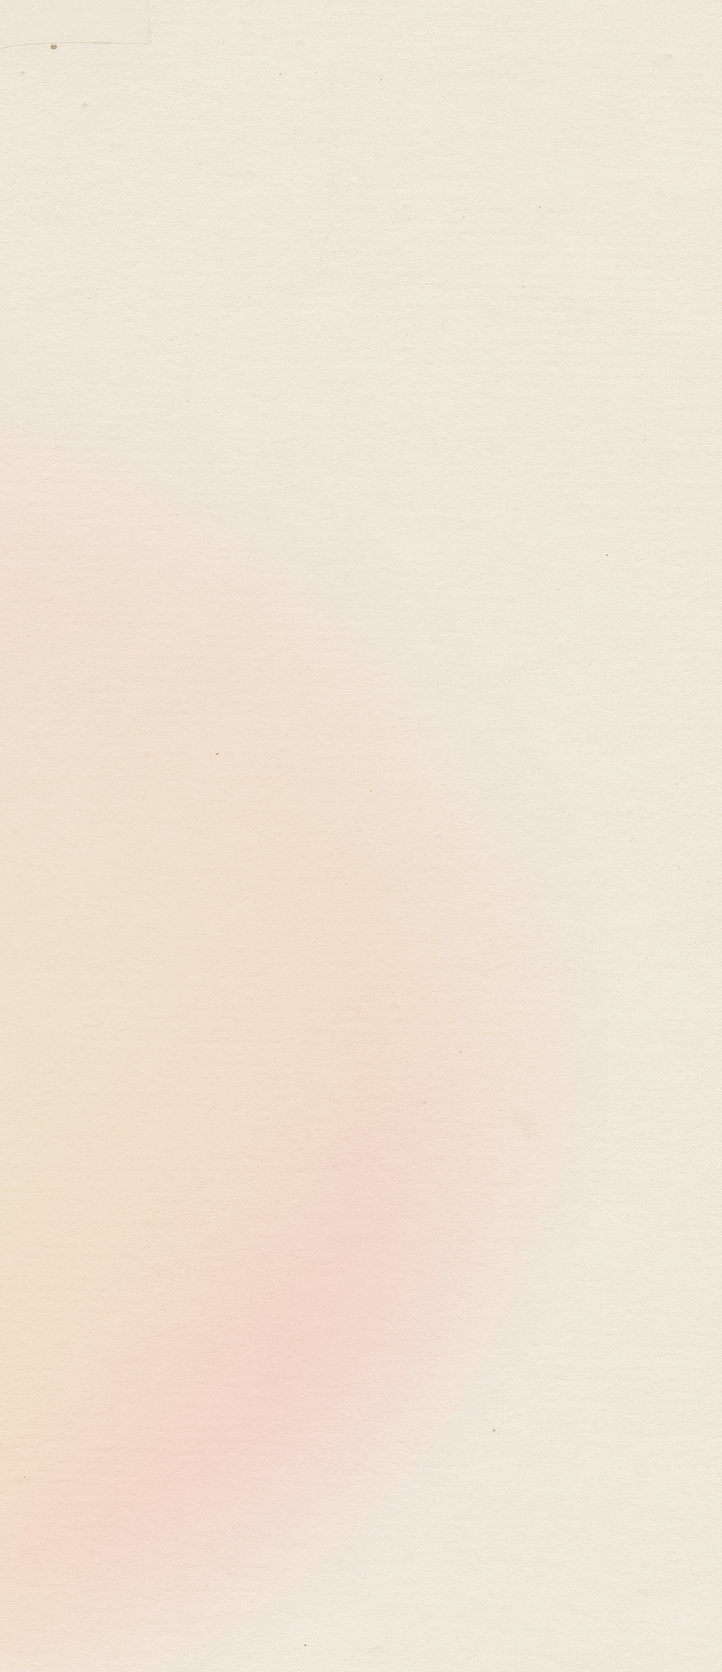
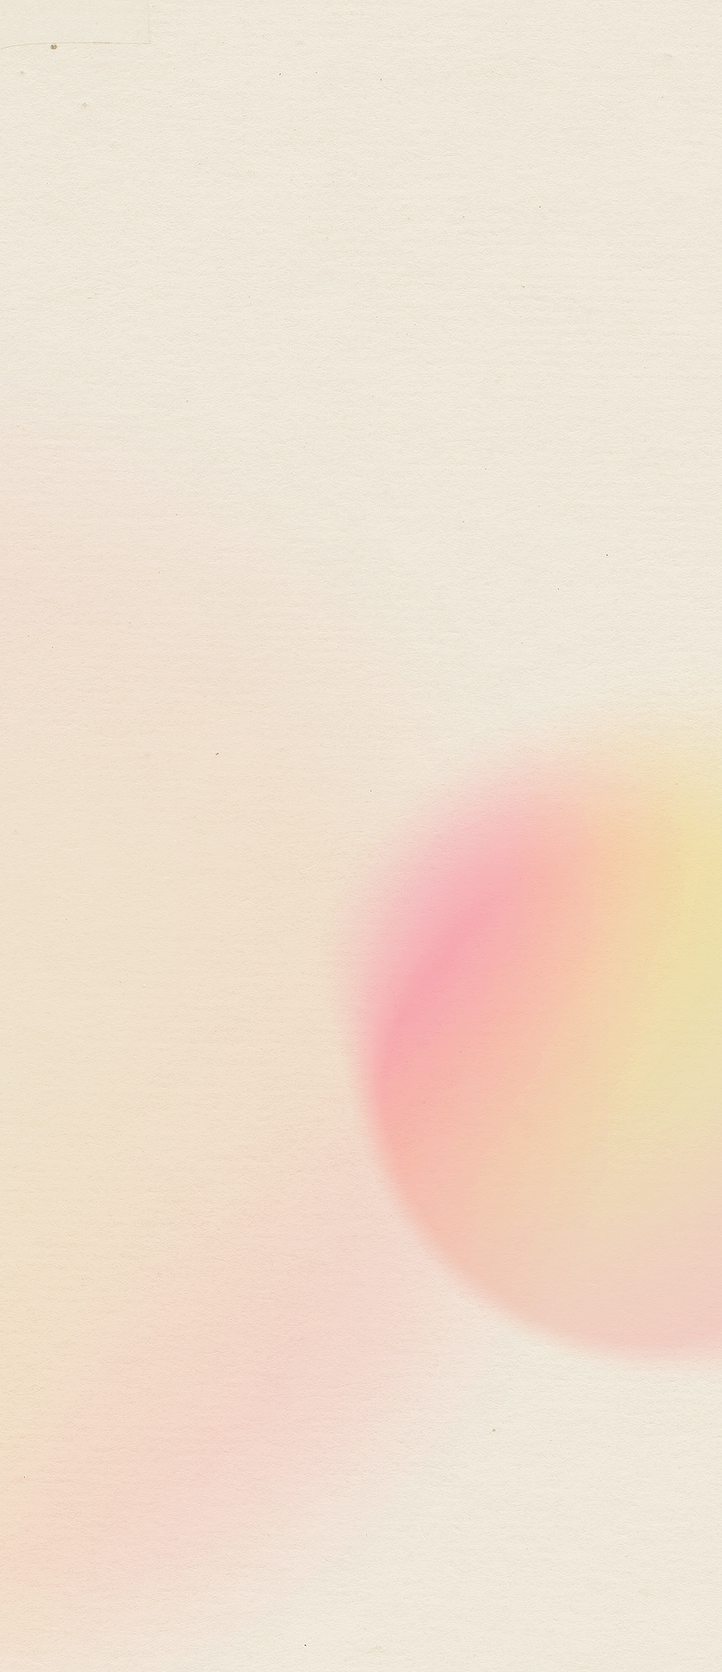
Replace homepage background and transparent directory art

Changed region(s): [[0.4889, 0.4368, 1.0, 0.8112]]

diff --git a/index.html b/index.html
@@ -2,11 +2,11 @@
 <html lang="zh-CN"><head><meta charset="utf-8"><meta name="viewport" content="width=device-width,initial-scale=1"><meta name="color-scheme" content="light dark"><title>一个美梦成真时</title>
 <link rel="preconnect" href="https://fonts.googleapis.com">
   <link rel="preconnect" href="https://fonts.gstatic.com" crossorigin>
-  <link href="https://fonts.googleapis.com/css2?family=Noto+Sans+SC:wght@300;400;500&family=Noto+Serif+SC:wght@400;600&display=swap" rel="stylesheet"><link rel="stylesheet" href="style.css?v=10"><script defer src="https://static.cloudflareinsights.com/beacon.min.js" data-cf-beacon='{"token":"cc3326733543405881d645b008275c07"}'></script></head><body class="home-page">
+  <link href="https://fonts.googleapis.com/css2?family=Noto+Sans+SC:wght@300;400;500&family=Noto+Serif+SC:wght@400;600&display=swap" rel="stylesheet"><link rel="stylesheet" href="style.css?v=11"><script defer src="https://static.cloudflareinsights.com/beacon.min.js" data-cf-beacon='{"token":"cc3326733543405881d645b008275c07"}'></script></head><body class="home-page">
 <header class="site-header site-header-home"><a class="site-home" href="index.html" aria-label="返回作品目录"><img src="assets/site-header.png" alt="WHEN A DREAM COMES TRUE — 一个美梦成真时"></a><div class="word-count">全篇字数：246,546</div><div class="toolbar"><button class="round" id="settingsButton" aria-label="阅读设置" aria-controls="settingsPanel" aria-expanded="false">◐</button></div></header>
 <aside class="panel" id="settingsPanel" aria-label="阅读设置" inert>
     <div class="panel-head"><span>阅读设置</span><button class="close" data-close>关闭</button></div>
     <div class="group"><span class="label">字体</span><div class="options font-options"><button class="choice active" data-font="serif">思源宋体</button><button class="choice" data-font="sans">思源黑体</button><button class="choice" data-font="light">苹方细体</button><button class="choice" data-font="system">手机系统</button></div></div>
     <div class="group"><span class="label">字号</span><div class="options sizes"><button class="choice" data-size="12">一咪咪</button><button class="choice" data-size="14">特小</button><button class="choice active" data-size="16">小</button><button class="choice" data-size="18">适中</button><button class="choice" data-size="20">大</button><button class="choice" data-size="23">特大</button></div></div>
     <div class="group"><span class="label">底色与文字</span><div class="palettes" id="palettes"></div></div>
-  </aside><main class="home-main"><div class="directory-poster"><img src="assets/contents.png" alt="一个美梦成真时章节目录"><a class="dream-glyph" href="00.html" aria-label="进入第00章">梦</a><a class="click-cue" href="00.html" aria-label="进入第00章"><img src="assets/click.png" alt=""></a><a class="poster-hit poster-intro directory-start" id="directory-start" style="top:39.1%;left:6%" href="intro-1.html" aria-label="引言1 《英文诗两首（一）》"></a><a class="poster-hit poster-intro" style="top:48.5%;right:5%" href="intro-2.html" aria-label="引言2 《英文诗两首（二）》"></a><a class="poster-hit poster-intro" style="top:58%;left:6%" href="intro-3.html" aria-label="引言3 《星期六》"></a><a class="poster-hit poster-intro" style="top:67.3%;right:5%" href="intro-4.html" aria-label="引言4 《布宜诺斯艾利斯》"></a><a class="poster-hit poster-intro" style="top:76%;left:6%" href="intro-5.html" aria-label="引言5 《循环的夜》"></a><a class="poster-hit poster-intro" style="top:84.4%;right:5%" href="intro-6.html" aria-label="引言6 《布宜诺斯艾利斯（另一首）》"></a><a class="poster-hit poster-chapter" style="top:44.46%;left:30.5%" href="00.html" aria-label="第00章">00</a><a class="poster-hit poster-chapter" style="top:45.24%;left:14.5%" href="01.html" aria-label="第01章">01</a><a class="poster-hit poster-chapter" style="top:46.04%;left:30.5%" href="02.html" aria-label="第02章">02</a><a class="poster-hit poster-chapter" style="top:46.82%;left:14.5%" href="03.html" aria-label="第03章">03</a><a class="poster-hit poster-chapter" style="top:47.62%;left:30.5%" href="04.html" aria-label="第04章">04</a><a class="poster-hit poster-chapter" style="top:48.4%;left:14.5%" href="05.html" aria-label="第05章">05</a><a class="poster-hit poster-chapter" style="top:49.2%;left:30.5%" href="06.html" aria-label="第06章">06</a><a class="poster-hit poster-chapter" style="top:54.72%;left:72%" href="07.html" aria-label="第07章">07</a><a class="poster-hit poster-chapter" style="top:55.5%;left:56.8%" href="08.html" aria-label="第08章">08</a><a class="poster-hit poster-chapter" style="top:56.3%;left:72%" href="09.html" aria-label="第09章">09</a><a class="poster-hit poster-chapter" style="top:57.08%;left:56.8%" href="10.html" aria-label="第10章">10</a><a class="poster-hit poster-chapter" style="top:57.88%;left:72%" href="11.html" aria-label="第11章">11</a><a class="poster-hit poster-chapter" style="top:64.04%;left:30.5%" href="12.html" aria-label="第12章">12</a><a class="poster-hit poster-chapter" style="top:64.82%;left:14.5%" href="13.html" aria-label="第13章">13</a><a class="poster-hit poster-chapter" style="top:65.62%;left:30.5%" href="14.html" aria-label="第14章">14</a><a class="poster-hit poster-chapter" style="top:66.4%;left:14.5%" href="15.html" aria-label="第15章">15</a><a class="poster-hit poster-chapter" style="top:67.2%;left:30.5%" href="16.html" aria-label="第16章">16</a><a class="poster-hit poster-chapter" style="top:72.68%;left:72%" href="17.html" aria-label="第17章">17</a><a class="poster-hit poster-chapter" style="top:73.46%;left:56.8%" href="18.html" aria-label="第18章">18</a><a class="poster-hit poster-chapter" style="top:74.26%;left:72%" href="19.html" aria-label="第19章">19</a><a class="poster-hit poster-chapter" style="top:75.04%;left:56.8%" href="20.html" aria-label="第20章">20</a><a class="poster-hit poster-chapter" style="top:80.66%;left:30.5%" href="21.html" aria-label="第21章">21</a><a class="poster-hit poster-chapter" style="top:81.44%;left:14.5%" href="22.html" aria-label="第22章">22</a><a class="poster-hit poster-chapter" style="top:82.24%;left:30.5%" href="23.html" aria-label="第23章">23</a><a class="poster-hit poster-chapter" style="top:83.02%;left:14.5%" href="24.html" aria-label="第24章">24</a><a class="poster-hit poster-chapter" style="top:83.82%;left:30.5%" href="25.html" aria-label="第25章">25</a><a class="poster-hit poster-chapter" style="top:89.42%;left:72%" href="26.html" aria-label="第26章">26</a><a class="poster-hit poster-chapter" style="top:90.2%;left:56.8%" href="27.html" aria-label="第27章">27</a><a class="poster-hit poster-chapter" style="top:91%;left:72%" href="28.html" aria-label="第28章">28</a><a class="poster-hit poster-chapter" style="top:91.78%;left:56.8%" href="29.html" aria-label="第29章">29</a></div></main><script src="reader.js?v=5"></script></body></html>
+  </aside><main class="home-main"><div class="directory-poster"><img src="assets/contents.png?v=2" alt="一个美梦成真时章节目录"><a class="dream-glyph" href="00.html" aria-label="进入第00章">梦</a><a class="click-cue" href="00.html" aria-label="进入第00章"><img src="assets/click.png" alt=""></a><a class="poster-hit poster-intro directory-start" id="directory-start" style="top:39.1%;left:6%" href="intro-1.html" aria-label="引言1 《英文诗两首（一）》"></a><a class="poster-hit poster-intro" style="top:48.5%;right:5%" href="intro-2.html" aria-label="引言2 《英文诗两首（二）》"></a><a class="poster-hit poster-intro" style="top:58%;left:6%" href="intro-3.html" aria-label="引言3 《星期六》"></a><a class="poster-hit poster-intro" style="top:67.3%;right:5%" href="intro-4.html" aria-label="引言4 《布宜诺斯艾利斯》"></a><a class="poster-hit poster-intro" style="top:76%;left:6%" href="intro-5.html" aria-label="引言5 《循环的夜》"></a><a class="poster-hit poster-intro" style="top:84.4%;right:5%" href="intro-6.html" aria-label="引言6 《布宜诺斯艾利斯（另一首）》"></a><a class="poster-hit poster-chapter" style="top:44.46%;left:30.5%" href="00.html" aria-label="第00章">00</a><a class="poster-hit poster-chapter" style="top:45.24%;left:14.5%" href="01.html" aria-label="第01章">01</a><a class="poster-hit poster-chapter" style="top:46.04%;left:30.5%" href="02.html" aria-label="第02章">02</a><a class="poster-hit poster-chapter" style="top:46.82%;left:14.5%" href="03.html" aria-label="第03章">03</a><a class="poster-hit poster-chapter" style="top:47.62%;left:30.5%" href="04.html" aria-label="第04章">04</a><a class="poster-hit poster-chapter" style="top:48.4%;left:14.5%" href="05.html" aria-label="第05章">05</a><a class="poster-hit poster-chapter" style="top:49.2%;left:30.5%" href="06.html" aria-label="第06章">06</a><a class="poster-hit poster-chapter" style="top:54.72%;left:72%" href="07.html" aria-label="第07章">07</a><a class="poster-hit poster-chapter" style="top:55.5%;left:56.8%" href="08.html" aria-label="第08章">08</a><a class="poster-hit poster-chapter" style="top:56.3%;left:72%" href="09.html" aria-label="第09章">09</a><a class="poster-hit poster-chapter" style="top:57.08%;left:56.8%" href="10.html" aria-label="第10章">10</a><a class="poster-hit poster-chapter" style="top:57.88%;left:72%" href="11.html" aria-label="第11章">11</a><a class="poster-hit poster-chapter" style="top:64.04%;left:30.5%" href="12.html" aria-label="第12章">12</a><a class="poster-hit poster-chapter" style="top:64.82%;left:14.5%" href="13.html" aria-label="第13章">13</a><a class="poster-hit poster-chapter" style="top:65.62%;left:30.5%" href="14.html" aria-label="第14章">14</a><a class="poster-hit poster-chapter" style="top:66.4%;left:14.5%" href="15.html" aria-label="第15章">15</a><a class="poster-hit poster-chapter" style="top:67.2%;left:30.5%" href="16.html" aria-label="第16章">16</a><a class="poster-hit poster-chapter" style="top:72.68%;left:72%" href="17.html" aria-label="第17章">17</a><a class="poster-hit poster-chapter" style="top:73.46%;left:56.8%" href="18.html" aria-label="第18章">18</a><a class="poster-hit poster-chapter" style="top:74.26%;left:72%" href="19.html" aria-label="第19章">19</a><a class="poster-hit poster-chapter" style="top:75.04%;left:56.8%" href="20.html" aria-label="第20章">20</a><a class="poster-hit poster-chapter" style="top:80.66%;left:30.5%" href="21.html" aria-label="第21章">21</a><a class="poster-hit poster-chapter" style="top:81.44%;left:14.5%" href="22.html" aria-label="第22章">22</a><a class="poster-hit poster-chapter" style="top:82.24%;left:30.5%" href="23.html" aria-label="第23章">23</a><a class="poster-hit poster-chapter" style="top:83.02%;left:14.5%" href="24.html" aria-label="第24章">24</a><a class="poster-hit poster-chapter" style="top:83.82%;left:30.5%" href="25.html" aria-label="第25章">25</a><a class="poster-hit poster-chapter" style="top:89.42%;left:72%" href="26.html" aria-label="第26章">26</a><a class="poster-hit poster-chapter" style="top:90.2%;left:56.8%" href="27.html" aria-label="第27章">27</a><a class="poster-hit poster-chapter" style="top:91%;left:72%" href="28.html" aria-label="第28章">28</a><a class="poster-hit poster-chapter" style="top:91.78%;left:56.8%" href="29.html" aria-label="第29章">29</a></div></main><script src="reader.js?v=5"></script></body></html>

diff --git a/intro-6.html b/intro-6.html
@@ -2,7 +2,7 @@
 <html lang="zh-CN"><head><meta charset="utf-8"><meta name="viewport" content="width=device-width,initial-scale=1"><meta name="color-scheme" content="light dark"><title>《布宜诺斯艾利斯（另一首）》 · 一个美梦成真时</title>
 <link rel="preconnect" href="https://fonts.googleapis.com">
   <link rel="preconnect" href="https://fonts.gstatic.com" crossorigin>
-  <link href="https://fonts.googleapis.com/css2?family=Noto+Sans+SC:wght@300;400;500&family=Noto+Serif+SC:wght@400;600&display=swap" rel="stylesheet"><link rel="stylesheet" href="style.css?v=10"><script defer src="https://static.cloudflareinsights.com/beacon.min.js" data-cf-beacon='{"token":"cc3326733543405881d645b008275c07"}'></script></head><body>
+  <link href="https://fonts.googleapis.com/css2?family=Noto+Sans+SC:wght@300;400;500&family=Noto+Serif+SC:wght@400;600&display=swap" rel="stylesheet"><link rel="stylesheet" href="style.css?v=11"><script defer src="https://static.cloudflareinsights.com/beacon.min.js" data-cf-beacon='{"token":"cc3326733543405881d645b008275c07"}'></script></head><body>
 <header class="site-header"><a class="site-home" href="index.html" aria-label="返回作品目录"><img src="assets/site-header.png" alt="WHEN A DREAM COMES TRUE — 一个美梦成真时"></a><div class="word-count">当前字数：47</div><div class="toolbar"><button class="round" id="settingsButton" aria-label="阅读设置" aria-controls="settingsPanel" aria-expanded="false">◐</button></div></header>
 <aside class="panel" id="settingsPanel" aria-label="阅读设置" inert>
     <div class="panel-head"><span>阅读设置</span><button class="close" data-close>关闭</button></div>

diff --git a/intro-1.html b/intro-1.html
@@ -2,7 +2,7 @@
 <html lang="zh-CN"><head><meta charset="utf-8"><meta name="viewport" content="width=device-width,initial-scale=1"><meta name="color-scheme" content="light dark"><title>《英文诗两首（一）》 · 一个美梦成真时</title>
 <link rel="preconnect" href="https://fonts.googleapis.com">
   <link rel="preconnect" href="https://fonts.gstatic.com" crossorigin>
-  <link href="https://fonts.googleapis.com/css2?family=Noto+Sans+SC:wght@300;400;500&family=Noto+Serif+SC:wght@400;600&display=swap" rel="stylesheet"><link rel="stylesheet" href="style.css?v=10"><script defer src="https://static.cloudflareinsights.com/beacon.min.js" data-cf-beacon='{"token":"cc3326733543405881d645b008275c07"}'></script></head><body>
+  <link href="https://fonts.googleapis.com/css2?family=Noto+Sans+SC:wght@300;400;500&family=Noto+Serif+SC:wght@400;600&display=swap" rel="stylesheet"><link rel="stylesheet" href="style.css?v=11"><script defer src="https://static.cloudflareinsights.com/beacon.min.js" data-cf-beacon='{"token":"cc3326733543405881d645b008275c07"}'></script></head><body>
 <header class="site-header"><a class="site-home" href="index.html" aria-label="返回作品目录"><img src="assets/site-header.png" alt="WHEN A DREAM COMES TRUE — 一个美梦成真时"></a><div class="word-count">当前字数：70</div><div class="toolbar"><button class="round" id="settingsButton" aria-label="阅读设置" aria-controls="settingsPanel" aria-expanded="false">◐</button></div></header>
 <aside class="panel" id="settingsPanel" aria-label="阅读设置" inert>
     <div class="panel-head"><span>阅读设置</span><button class="close" data-close>关闭</button></div>

diff --git a/intro-2.html b/intro-2.html
@@ -2,7 +2,7 @@
 <html lang="zh-CN"><head><meta charset="utf-8"><meta name="viewport" content="width=device-width,initial-scale=1"><meta name="color-scheme" content="light dark"><title>《英文诗两首（二）》 · 一个美梦成真时</title>
 <link rel="preconnect" href="https://fonts.googleapis.com">
   <link rel="preconnect" href="https://fonts.gstatic.com" crossorigin>
-  <link href="https://fonts.googleapis.com/css2?family=Noto+Sans+SC:wght@300;400;500&family=Noto+Serif+SC:wght@400;600&display=swap" rel="stylesheet"><link rel="stylesheet" href="style.css?v=10"><script defer src="https://static.cloudflareinsights.com/beacon.min.js" data-cf-beacon='{"token":"cc3326733543405881d645b008275c07"}'></script></head><body>
+  <link href="https://fonts.googleapis.com/css2?family=Noto+Sans+SC:wght@300;400;500&family=Noto+Serif+SC:wght@400;600&display=swap" rel="stylesheet"><link rel="stylesheet" href="style.css?v=11"><script defer src="https://static.cloudflareinsights.com/beacon.min.js" data-cf-beacon='{"token":"cc3326733543405881d645b008275c07"}'></script></head><body>
 <header class="site-header"><a class="site-home" href="index.html" aria-label="返回作品目录"><img src="assets/site-header.png" alt="WHEN A DREAM COMES TRUE — 一个美梦成真时"></a><div class="word-count">当前字数：83</div><div class="toolbar"><button class="round" id="settingsButton" aria-label="阅读设置" aria-controls="settingsPanel" aria-expanded="false">◐</button></div></header>
 <aside class="panel" id="settingsPanel" aria-label="阅读设置" inert>
     <div class="panel-head"><span>阅读设置</span><button class="close" data-close>关闭</button></div>

diff --git a/intro-4.html b/intro-4.html
@@ -2,7 +2,7 @@
 <html lang="zh-CN"><head><meta charset="utf-8"><meta name="viewport" content="width=device-width,initial-scale=1"><meta name="color-scheme" content="light dark"><title>《布宜诺斯艾利斯》 · 一个美梦成真时</title>
 <link rel="preconnect" href="https://fonts.googleapis.com">
   <link rel="preconnect" href="https://fonts.gstatic.com" crossorigin>
-  <link href="https://fonts.googleapis.com/css2?family=Noto+Sans+SC:wght@300;400;500&family=Noto+Serif+SC:wght@400;600&display=swap" rel="stylesheet"><link rel="stylesheet" href="style.css?v=10"><script defer src="https://static.cloudflareinsights.com/beacon.min.js" data-cf-beacon='{"token":"cc3326733543405881d645b008275c07"}'></script></head><body>
+  <link href="https://fonts.googleapis.com/css2?family=Noto+Sans+SC:wght@300;400;500&family=Noto+Serif+SC:wght@400;600&display=swap" rel="stylesheet"><link rel="stylesheet" href="style.css?v=11"><script defer src="https://static.cloudflareinsights.com/beacon.min.js" data-cf-beacon='{"token":"cc3326733543405881d645b008275c07"}'></script></head><body>
 <header class="site-header"><a class="site-home" href="index.html" aria-label="返回作品目录"><img src="assets/site-header.png" alt="WHEN A DREAM COMES TRUE — 一个美梦成真时"></a><div class="word-count">当前字数：43</div><div class="toolbar"><button class="round" id="settingsButton" aria-label="阅读设置" aria-controls="settingsPanel" aria-expanded="false">◐</button></div></header>
 <aside class="panel" id="settingsPanel" aria-label="阅读设置" inert>
     <div class="panel-head"><span>阅读设置</span><button class="close" data-close>关闭</button></div>

diff --git a/intro-5.html b/intro-5.html
@@ -2,7 +2,7 @@
 <html lang="zh-CN"><head><meta charset="utf-8"><meta name="viewport" content="width=device-width,initial-scale=1"><meta name="color-scheme" content="light dark"><title>《循环的夜》 · 一个美梦成真时</title>
 <link rel="preconnect" href="https://fonts.googleapis.com">
   <link rel="preconnect" href="https://fonts.gstatic.com" crossorigin>
-  <link href="https://fonts.googleapis.com/css2?family=Noto+Sans+SC:wght@300;400;500&family=Noto+Serif+SC:wght@400;600&display=swap" rel="stylesheet"><link rel="stylesheet" href="style.css?v=10"><script defer src="https://static.cloudflareinsights.com/beacon.min.js" data-cf-beacon='{"token":"cc3326733543405881d645b008275c07"}'></script></head><body>
+  <link href="https://fonts.googleapis.com/css2?family=Noto+Sans+SC:wght@300;400;500&family=Noto+Serif+SC:wght@400;600&display=swap" rel="stylesheet"><link rel="stylesheet" href="style.css?v=11"><script defer src="https://static.cloudflareinsights.com/beacon.min.js" data-cf-beacon='{"token":"cc3326733543405881d645b008275c07"}'></script></head><body>
 <header class="site-header"><a class="site-home" href="index.html" aria-label="返回作品目录"><img src="assets/site-header.png" alt="WHEN A DREAM COMES TRUE — 一个美梦成真时"></a><div class="word-count">当前字数：72</div><div class="toolbar"><button class="round" id="settingsButton" aria-label="阅读设置" aria-controls="settingsPanel" aria-expanded="false">◐</button></div></header>
 <aside class="panel" id="settingsPanel" aria-label="阅读设置" inert>
     <div class="panel-head"><span>阅读设置</span><button class="close" data-close>关闭</button></div>

diff --git a/intro-3.html b/intro-3.html
@@ -2,7 +2,7 @@
 <html lang="zh-CN"><head><meta charset="utf-8"><meta name="viewport" content="width=device-width,initial-scale=1"><meta name="color-scheme" content="light dark"><title>《星期六》 · 一个美梦成真时</title>
 <link rel="preconnect" href="https://fonts.googleapis.com">
   <link rel="preconnect" href="https://fonts.gstatic.com" crossorigin>
-  <link href="https://fonts.googleapis.com/css2?family=Noto+Sans+SC:wght@300;400;500&family=Noto+Serif+SC:wght@400;600&display=swap" rel="stylesheet"><link rel="stylesheet" href="style.css?v=10"><script defer src="https://static.cloudflareinsights.com/beacon.min.js" data-cf-beacon='{"token":"cc3326733543405881d645b008275c07"}'></script></head><body>
+  <link href="https://fonts.googleapis.com/css2?family=Noto+Sans+SC:wght@300;400;500&family=Noto+Serif+SC:wght@400;600&display=swap" rel="stylesheet"><link rel="stylesheet" href="style.css?v=11"><script defer src="https://static.cloudflareinsights.com/beacon.min.js" data-cf-beacon='{"token":"cc3326733543405881d645b008275c07"}'></script></head><body>
 <header class="site-header"><a class="site-home" href="index.html" aria-label="返回作品目录"><img src="assets/site-header.png" alt="WHEN A DREAM COMES TRUE — 一个美梦成真时"></a><div class="word-count">当前字数：50</div><div class="toolbar"><button class="round" id="settingsButton" aria-label="阅读设置" aria-controls="settingsPanel" aria-expanded="false">◐</button></div></header>
 <aside class="panel" id="settingsPanel" aria-label="阅读设置" inert>
     <div class="panel-head"><span>阅读设置</span><button class="close" data-close>关闭</button></div>

diff --git a/10.html b/10.html
@@ -2,7 +2,7 @@
 <html lang="zh-CN"><head><meta charset="utf-8"><meta name="viewport" content="width=device-width,initial-scale=1"><meta name="color-scheme" content="light dark"><title>10 · 一个美梦成真时</title>
 <link rel="preconnect" href="https://fonts.googleapis.com">
   <link rel="preconnect" href="https://fonts.gstatic.com" crossorigin>
-  <link href="https://fonts.googleapis.com/css2?family=Noto+Sans+SC:wght@300;400;500&family=Noto+Serif+SC:wght@400;600&display=swap" rel="stylesheet"><link rel="stylesheet" href="style.css?v=10"><script defer src="https://static.cloudflareinsights.com/beacon.min.js" data-cf-beacon='{"token":"cc3326733543405881d645b008275c07"}'></script></head><body>
+  <link href="https://fonts.googleapis.com/css2?family=Noto+Sans+SC:wght@300;400;500&family=Noto+Serif+SC:wght@400;600&display=swap" rel="stylesheet"><link rel="stylesheet" href="style.css?v=11"><script defer src="https://static.cloudflareinsights.com/beacon.min.js" data-cf-beacon='{"token":"cc3326733543405881d645b008275c07"}'></script></head><body>
 <header class="site-header"><a class="site-home" href="index.html" aria-label="返回作品目录"><img src="assets/site-header.png" alt="WHEN A DREAM COMES TRUE — 一个美梦成真时"></a><div class="word-count">当前字数：10,518</div><div class="toolbar"><button class="round" id="settingsButton" aria-label="阅读设置" aria-controls="settingsPanel" aria-expanded="false">◐</button></div></header>
 <aside class="panel" id="settingsPanel" aria-label="阅读设置" inert>
     <div class="panel-head"><span>阅读设置</span><button class="close" data-close>关闭</button></div>

diff --git a/26.html b/26.html
@@ -2,7 +2,7 @@
 <html lang="zh-CN"><head><meta charset="utf-8"><meta name="viewport" content="width=device-width,initial-scale=1"><meta name="color-scheme" content="light dark"><title>26 · 一个美梦成真时</title>
 <link rel="preconnect" href="https://fonts.googleapis.com">
   <link rel="preconnect" href="https://fonts.gstatic.com" crossorigin>
-  <link href="https://fonts.googleapis.com/css2?family=Noto+Sans+SC:wght@300;400;500&family=Noto+Serif+SC:wght@400;600&display=swap" rel="stylesheet"><link rel="stylesheet" href="style.css?v=10"><script defer src="https://static.cloudflareinsights.com/beacon.min.js" data-cf-beacon='{"token":"cc3326733543405881d645b008275c07"}'></script></head><body>
+  <link href="https://fonts.googleapis.com/css2?family=Noto+Sans+SC:wght@300;400;500&family=Noto+Serif+SC:wght@400;600&display=swap" rel="stylesheet"><link rel="stylesheet" href="style.css?v=11"><script defer src="https://static.cloudflareinsights.com/beacon.min.js" data-cf-beacon='{"token":"cc3326733543405881d645b008275c07"}'></script></head><body>
 <header class="site-header"><a class="site-home" href="index.html" aria-label="返回作品目录"><img src="assets/site-header.png" alt="WHEN A DREAM COMES TRUE — 一个美梦成真时"></a><div class="word-count">当前字数：13,348</div><div class="toolbar"><button class="round" id="settingsButton" aria-label="阅读设置" aria-controls="settingsPanel" aria-expanded="false">◐</button></div></header>
 <aside class="panel" id="settingsPanel" aria-label="阅读设置" inert>
     <div class="panel-head"><span>阅读设置</span><button class="close" data-close>关闭</button></div>

diff --git a/28.html b/28.html
@@ -2,7 +2,7 @@
 <html lang="zh-CN"><head><meta charset="utf-8"><meta name="viewport" content="width=device-width,initial-scale=1"><meta name="color-scheme" content="light dark"><title>28 · 一个美梦成真时</title>
 <link rel="preconnect" href="https://fonts.googleapis.com">
   <link rel="preconnect" href="https://fonts.gstatic.com" crossorigin>
-  <link href="https://fonts.googleapis.com/css2?family=Noto+Sans+SC:wght@300;400;500&family=Noto+Serif+SC:wght@400;600&display=swap" rel="stylesheet"><link rel="stylesheet" href="style.css?v=10"><script defer src="https://static.cloudflareinsights.com/beacon.min.js" data-cf-beacon='{"token":"cc3326733543405881d645b008275c07"}'></script></head><body>
+  <link href="https://fonts.googleapis.com/css2?family=Noto+Sans+SC:wght@300;400;500&family=Noto+Serif+SC:wght@400;600&display=swap" rel="stylesheet"><link rel="stylesheet" href="style.css?v=11"><script defer src="https://static.cloudflareinsights.com/beacon.min.js" data-cf-beacon='{"token":"cc3326733543405881d645b008275c07"}'></script></head><body>
 <header class="site-header"><a class="site-home" href="index.html" aria-label="返回作品目录"><img src="assets/site-header.png" alt="WHEN A DREAM COMES TRUE — 一个美梦成真时"></a><div class="word-count">当前字数：10,814</div><div class="toolbar"><button class="round" id="settingsButton" aria-label="阅读设置" aria-controls="settingsPanel" aria-expanded="false">◐</button></div></header>
 <aside class="panel" id="settingsPanel" aria-label="阅读设置" inert>
     <div class="panel-head"><span>阅读设置</span><button class="close" data-close>关闭</button></div>

diff --git a/29.html b/29.html
@@ -2,7 +2,7 @@
 <html lang="zh-CN"><head><meta charset="utf-8"><meta name="viewport" content="width=device-width,initial-scale=1"><meta name="color-scheme" content="light dark"><title>29 · 一个美梦成真时</title>
 <link rel="preconnect" href="https://fonts.googleapis.com">
   <link rel="preconnect" href="https://fonts.gstatic.com" crossorigin>
-  <link href="https://fonts.googleapis.com/css2?family=Noto+Sans+SC:wght@300;400;500&family=Noto+Serif+SC:wght@400;600&display=swap" rel="stylesheet"><link rel="stylesheet" href="style.css?v=10"><script defer src="https://static.cloudflareinsights.com/beacon.min.js" data-cf-beacon='{"token":"cc3326733543405881d645b008275c07"}'></script></head><body>
+  <link href="https://fonts.googleapis.com/css2?family=Noto+Sans+SC:wght@300;400;500&family=Noto+Serif+SC:wght@400;600&display=swap" rel="stylesheet"><link rel="stylesheet" href="style.css?v=11"><script defer src="https://static.cloudflareinsights.com/beacon.min.js" data-cf-beacon='{"token":"cc3326733543405881d645b008275c07"}'></script></head><body>
 <header class="site-header"><a class="site-home" href="index.html" aria-label="返回作品目录"><img src="assets/site-header.png" alt="WHEN A DREAM COMES TRUE — 一个美梦成真时"></a><div class="word-count">当前字数：14,935</div><div class="toolbar"><button class="round" id="settingsButton" aria-label="阅读设置" aria-controls="settingsPanel" aria-expanded="false">◐</button></div></header>
 <aside class="panel" id="settingsPanel" aria-label="阅读设置" inert>
     <div class="panel-head"><span>阅读设置</span><button class="close" data-close>关闭</button></div>

diff --git a/00.html b/00.html
@@ -2,7 +2,7 @@
 <html lang="zh-CN"><head><meta charset="utf-8"><meta name="viewport" content="width=device-width,initial-scale=1"><meta name="color-scheme" content="light dark"><title>00 · 一个美梦成真时</title>
 <link rel="preconnect" href="https://fonts.googleapis.com">
   <link rel="preconnect" href="https://fonts.gstatic.com" crossorigin>
-  <link href="https://fonts.googleapis.com/css2?family=Noto+Sans+SC:wght@300;400;500&family=Noto+Serif+SC:wght@400;600&display=swap" rel="stylesheet"><link rel="stylesheet" href="style.css?v=10"><script defer src="https://static.cloudflareinsights.com/beacon.min.js" data-cf-beacon='{"token":"cc3326733543405881d645b008275c07"}'></script></head><body>
+  <link href="https://fonts.googleapis.com/css2?family=Noto+Sans+SC:wght@300;400;500&family=Noto+Serif+SC:wght@400;600&display=swap" rel="stylesheet"><link rel="stylesheet" href="style.css?v=11"><script defer src="https://static.cloudflareinsights.com/beacon.min.js" data-cf-beacon='{"token":"cc3326733543405881d645b008275c07"}'></script></head><body>
 <header class="site-header"><a class="site-home" href="index.html" aria-label="返回作品目录"><img src="assets/site-header.png" alt="WHEN A DREAM COMES TRUE — 一个美梦成真时"></a><div class="word-count">当前字数：1,382</div><div class="toolbar"><button class="round" id="settingsButton" aria-label="阅读设置" aria-controls="settingsPanel" aria-expanded="false">◐</button></div></header>
 <aside class="panel" id="settingsPanel" aria-label="阅读设置" inert>
     <div class="panel-head"><span>阅读设置</span><button class="close" data-close>关闭</button></div>
